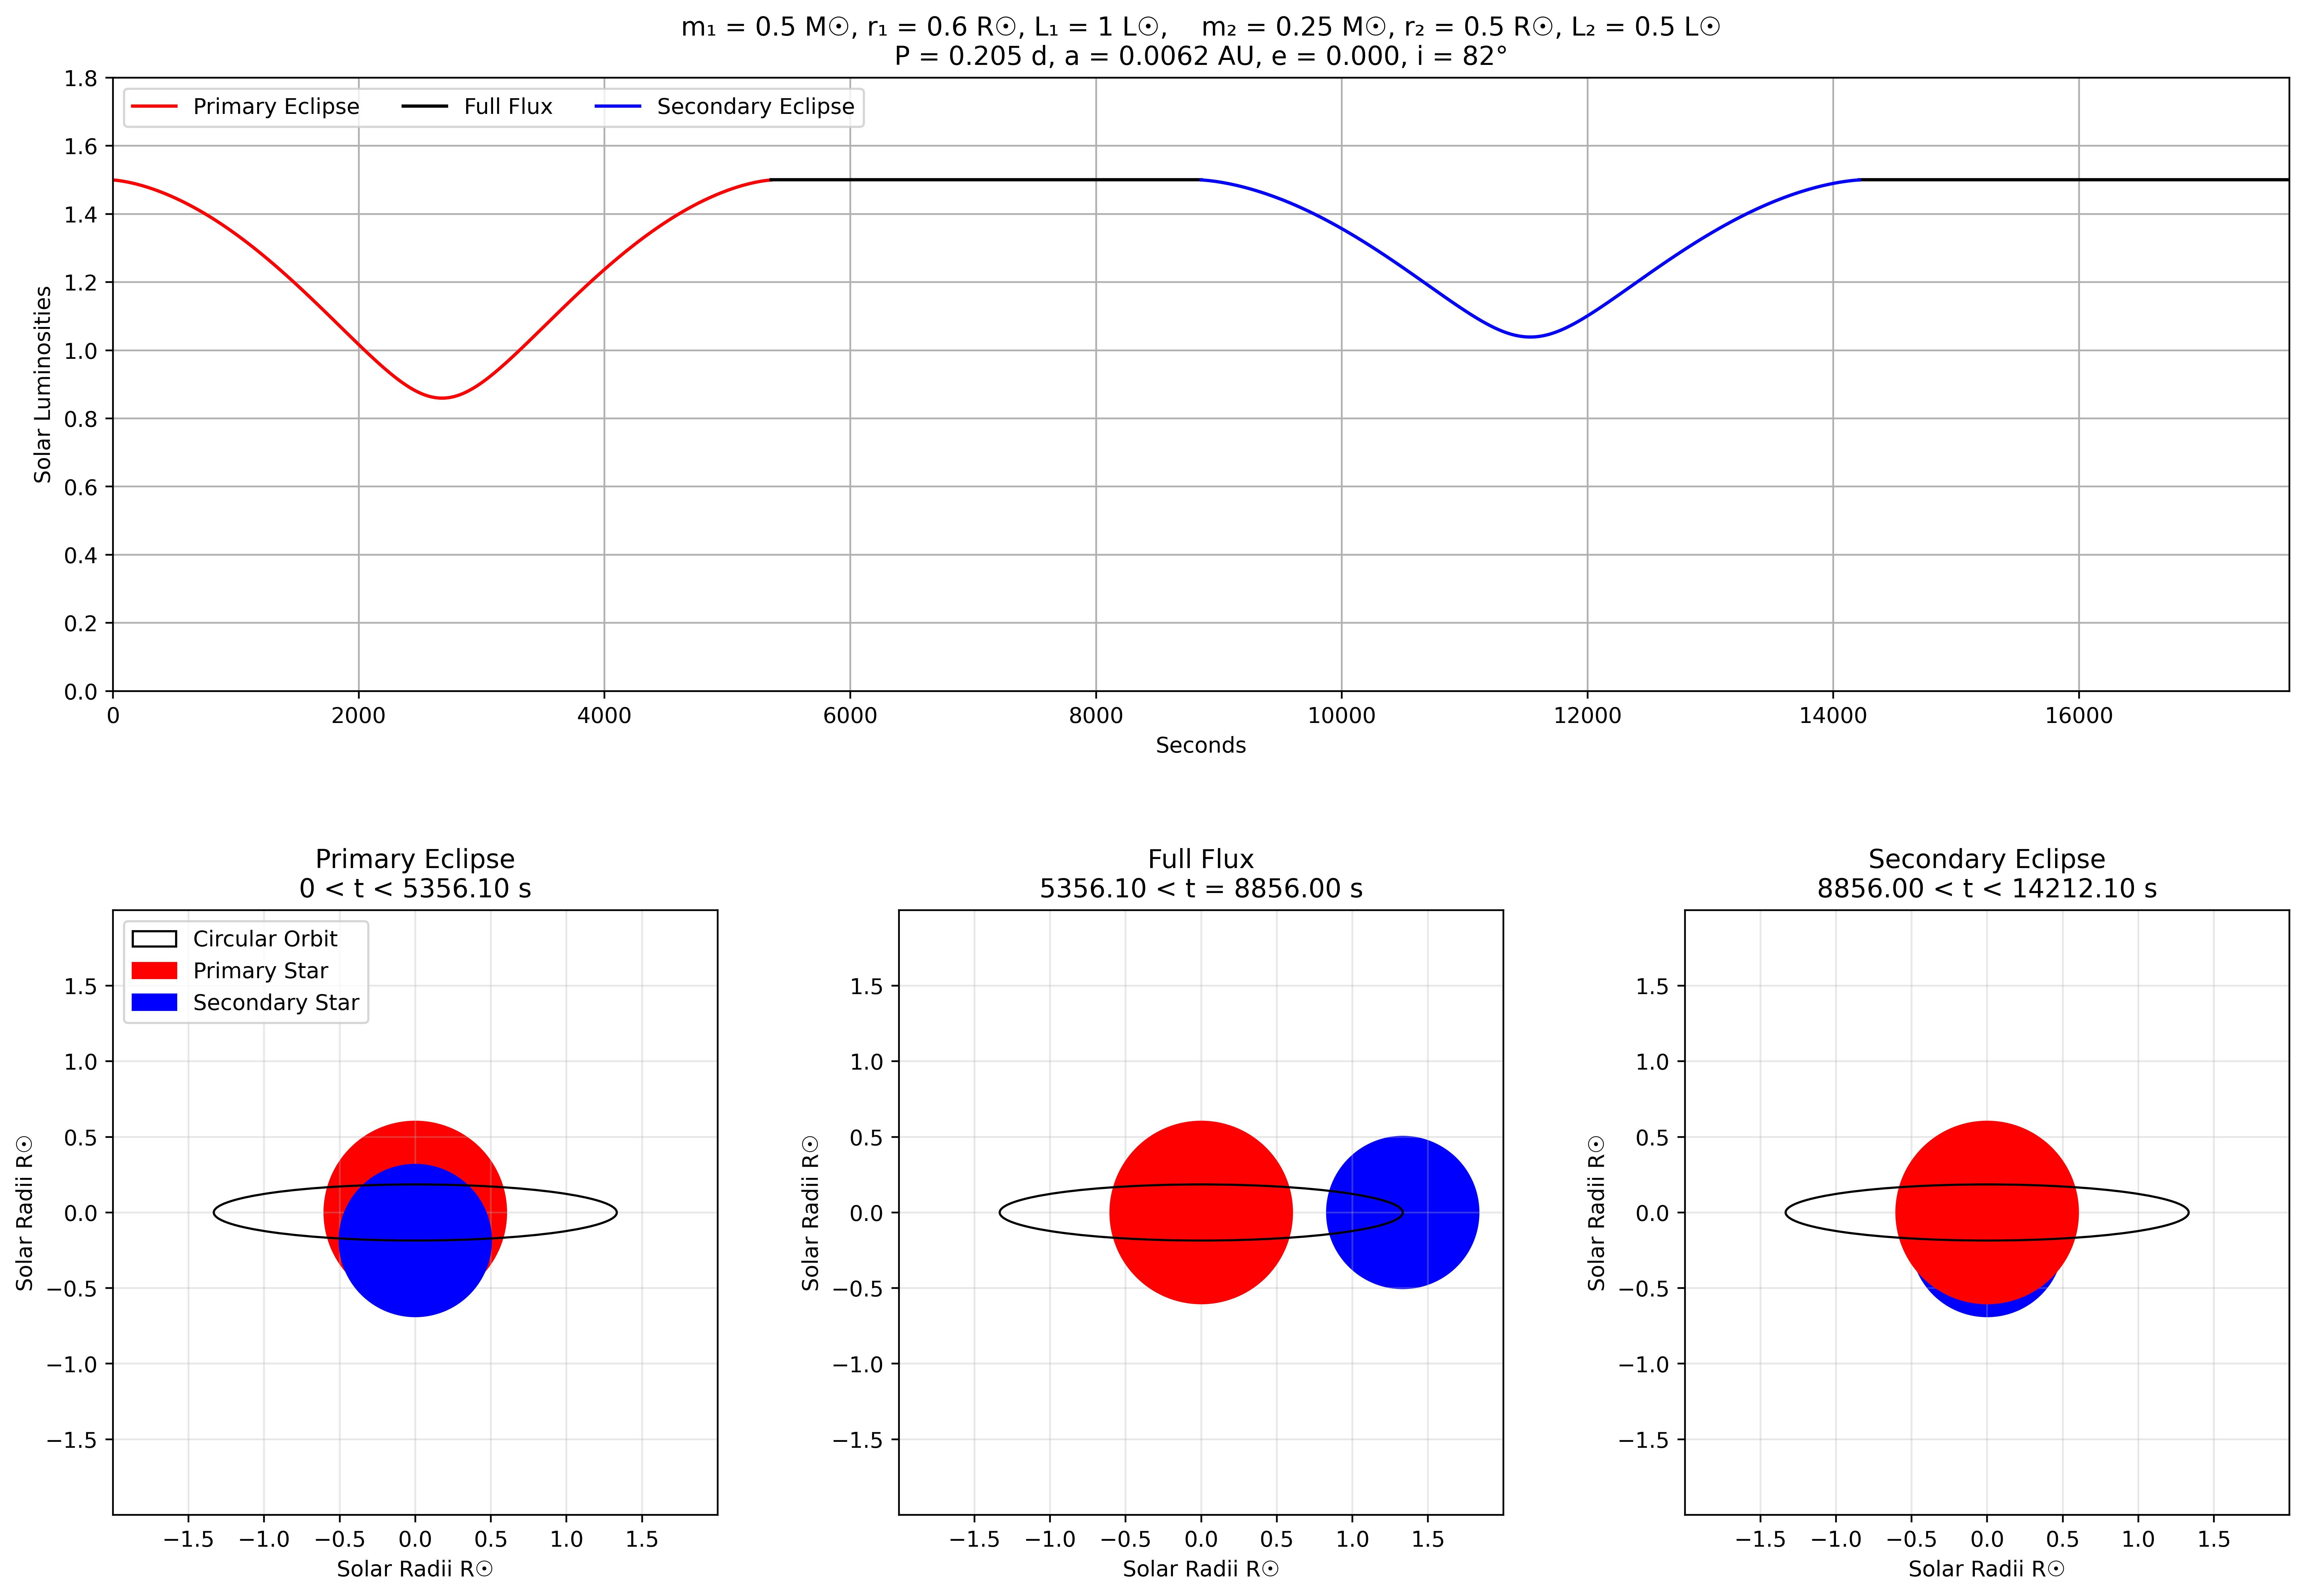
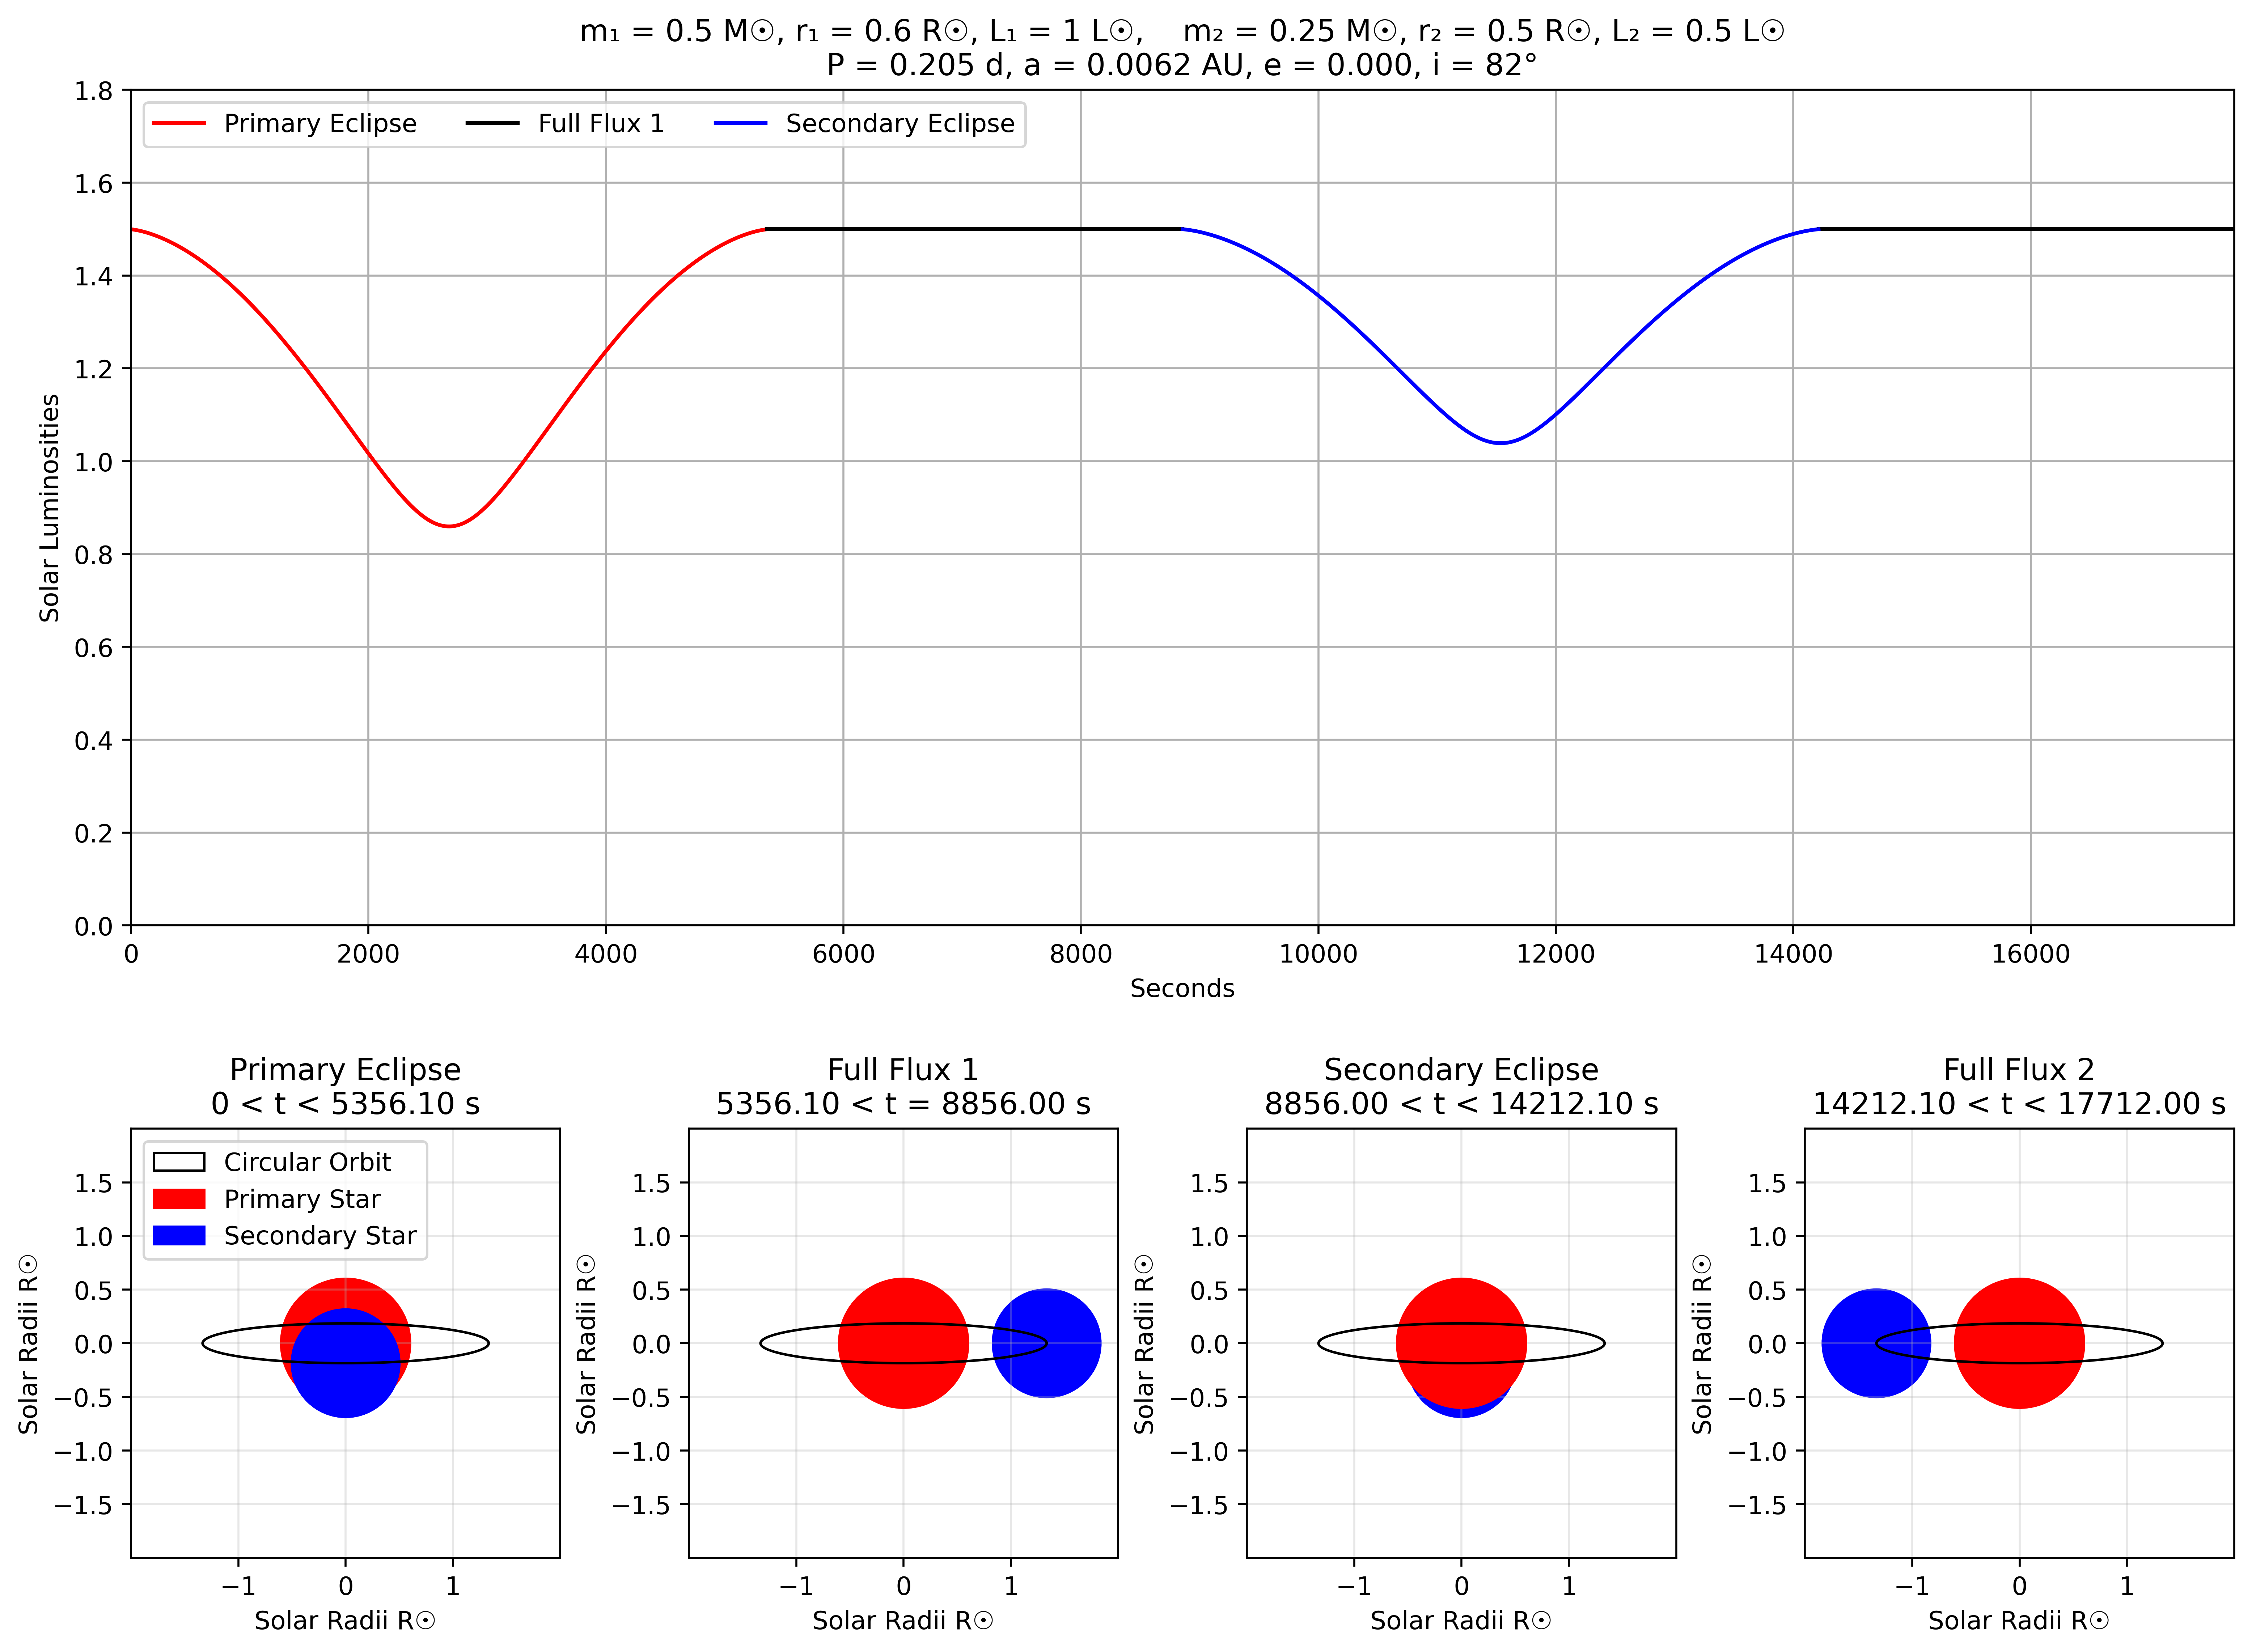
updated LC image

diff --git a/projects.html b/projects.html
@@ -58,7 +58,7 @@
                         
                     </div>
                     
-                    <img src = "images/other/binarycurve.png" alt = "Binary Simulator" width = "700" height = "482">
+                    <img src = "images/other/binarycurve.png" alt = "Binary Simulator" width = "700" height = "513">
                 </div>
                 
             </div>